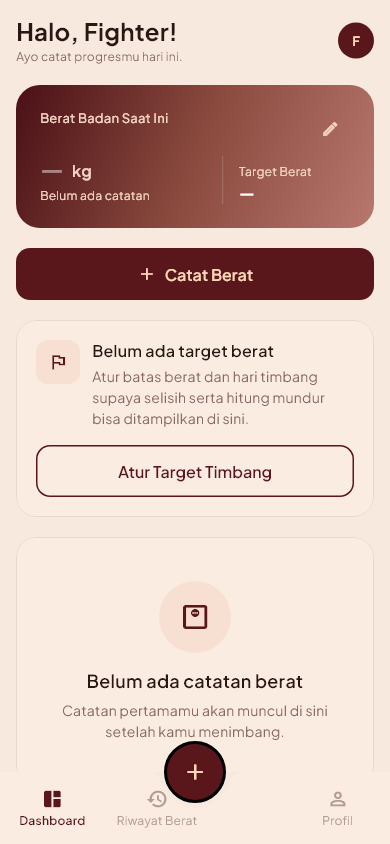
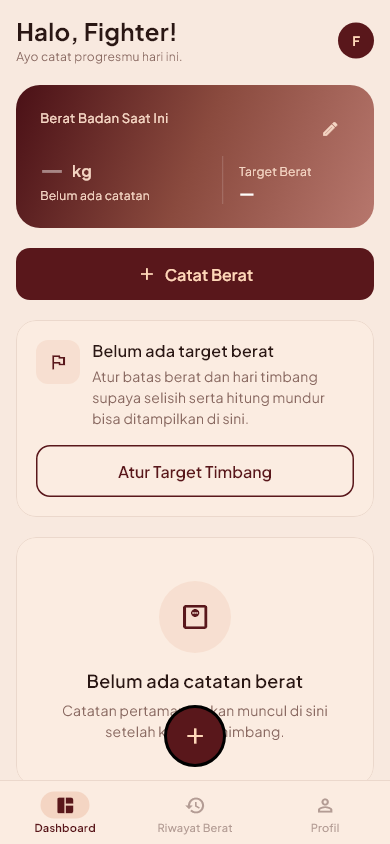
fix: rapikan navigasi bawah mobile tanpa notch dan FAB melayang di atas bar

Changed region(s): [[0.3077, 0.8318, 0.5846, 0.9858], [0.0615, 0.9242, 0.2462, 0.9858], [0.8, 0.9242, 0.8923, 0.9858]]

diff --git a/lib/core/widgets/app_scaffold.dart b/lib/core/widgets/app_scaffold.dart
@@ -94,47 +94,50 @@ class _MobileShell extends StatelessWidget {
             ),
       body: SafeArea(bottom: false, child: child),
       floatingActionButton: showFab ? const _CatatBeratFab() : null,
-      floatingActionButtonLocation: FloatingActionButtonLocation.centerDocked,
-      bottomNavigationBar: _BottomNav(index: index, showFab: showFab),
+      // D26: FAB "terangkat di atas bar", bukan menembus bar.
+      //
+      // Sebelumnya `centerDocked` + notch dipakai bersama **tiga** item menu.
+      // Tiga item yang dibagi rata menempatkan item tengah tepat di titik
+      // tengah, jadi FAB selalu menimpa "Riwayat Berat" — dan kalau gap-nya
+      // digeser supaya tidak menimpa, jarak antar item jadi tidak rata.
+      // Dengan FAB melayang di atas bar, bar bisa rata tiga dan tidak ada
+      // yang tertutup.
+      floatingActionButtonLocation: FloatingActionButtonLocation.centerFloat,
+      bottomNavigationBar: _BottomNav(index: index),
     );
   }
 }
 
 class _BottomNav extends StatelessWidget {
-  const _BottomNav({required this.index, required this.showFab});
+  const _BottomNav({required this.index});
 
   final int index;
 
-  /// Bila FAB tidak ditampilkan, bar tidak memakai notch dan ketiga menu
-  /// dibagi rata — supaya tidak ada cekungan kosong di tengah.
-  final bool showFab;
-
   @override
   Widget build(BuildContext context) {
-    return BottomAppBar(
-      color: AppColors.cream200,
-      surfaceTintColor: Colors.transparent,
-      elevation: 0,
-      height: 72,
-      padding: EdgeInsets.zero,
-      shape: showFab ? const CircularNotchedRectangle() : null,
-      notchMargin: 8,
-      child: Row(
-        children: [
-          Expanded(
-            child: _NavItem(destination: appDestinations[0], selected: index == 0),
+    return DecoratedBox(
+      decoration: const BoxDecoration(
+        color: AppColors.cream200,
+        // Garis atas tipis: tanpa ini bar menyatu dengan latar halaman dan
+        // terlihat seperti konten yang terpotong.
+        border: Border(top: BorderSide(color: AppColors.border)),
+      ),
+      child: SafeArea(
+        top: false,
+        child: SizedBox(
+          height: 64,
+          child: Row(
+            children: [
+              for (var i = 0; i < appDestinations.length; i++)
+                Expanded(
+                  child: _NavItem(
+                    destination: appDestinations[i],
+                    selected: index == i,
+                  ),
+                ),
+            ],
           ),
-          Expanded(
-            child: _NavItem(destination: appDestinations[1], selected: index == 1),
-          ),
-          if (showFab)
-            const SizedBox(width: 76)
-          else
-            const SizedBox.shrink(),
-          Expanded(
-            child: _NavItem(destination: appDestinations[2], selected: index == 2),
-          ),
-        ],
+        ),
       ),
     );
   }
@@ -159,10 +162,21 @@ class _NavItem extends StatelessWidget {
         child: Column(
           mainAxisAlignment: MainAxisAlignment.center,
           children: [
-            Icon(
-              selected ? destination.activeIcon : destination.icon,
-              size: 22,
-              color: color,
+            // Pil di belakang ikon: penanda aktif yang tidak bergantung pada
+            // warna saja (labelnya juga menebal).
+            AnimatedContainer(
+              duration: const Duration(milliseconds: 160),
+              curve: Curves.easeOut,
+              padding: const EdgeInsets.symmetric(horizontal: 14, vertical: 3),
+              decoration: BoxDecoration(
+                color: selected ? AppColors.peach200 : Colors.transparent,
+                borderRadius: BorderRadius.circular(999),
+              ),
+              child: Icon(
+                selected ? destination.activeIcon : destination.icon,
+                size: 21,
+                color: color,
+              ),
             ),
             const SizedBox(height: 2),
             Text(
@@ -170,8 +184,10 @@ class _NavItem extends StatelessWidget {
               maxLines: 1,
               overflow: TextOverflow.ellipsis,
               style: AppTextStyles.caption.copyWith(
+                fontSize: 11,
+                height: 1.1,
                 color: color,
-                fontWeight: selected ? FontWeight.w600 : FontWeight.w400,
+                fontWeight: selected ? FontWeight.w700 : FontWeight.w500,
               ),
             ),
           ],

diff --git a/test/widget_test.dart b/test/widget_test.dart
@@ -1182,6 +1182,90 @@ void main() {
     });
   });
 
+  // D26: bar bawah sempat memakai notch dengan FAB ditengah, padahal menu ada
+  // tiga. Tiga item yang dibagi rata menaruh item tengah tepat di titik tengah,
+  // jadi FAB selalu menutupi "Riwayat Berat". Test ini mengunci geometrinya.
+  group('Navigasi bawah', () {
+    Rect rectItem(WidgetTester tester, String label) {
+      return tester.getRect(
+        find
+            .ancestor(
+              of: find.text(label),
+              matching: find.byType(InkWell),
+            )
+            .first,
+      );
+    }
+
+    testWidgets('FAB tidak menimpa satu pun item menu', (tester) async {
+      final router = await pumpApp(tester);
+      router.go(AppRoutes.dashboard);
+      await tester.pumpAndSettle();
+
+      final fab = tester.getRect(find.byType(FloatingActionButton));
+      for (final label in [
+        AppStrings.navDashboard,
+        AppStrings.navRiwayat,
+        AppStrings.navProfil,
+      ]) {
+        expect(
+          fab.overlaps(rectItem(tester, label)),
+          isFalse,
+          reason: 'FAB menimpa menu "$label"',
+        );
+      }
+    });
+
+    testWidgets('FAB berada di atas bar, bukan menembusnya', (tester) async {
+      final router = await pumpApp(tester);
+      router.go(AppRoutes.dashboard);
+      await tester.pumpAndSettle();
+
+      final fab = tester.getRect(find.byType(FloatingActionButton));
+      final item = rectItem(tester, AppStrings.navDashboard);
+
+      // Seluruh badan FAB harus berakhir sebelum bar dimulai.
+      expect(fab.bottom, lessThanOrEqualTo(item.top));
+    });
+
+    testWidgets('tiga item menu berjarak rata', (tester) async {
+      final router = await pumpApp(tester);
+      router.go(AppRoutes.dashboard);
+      await tester.pumpAndSettle();
+
+      final tengah = [
+        for (final label in [
+          AppStrings.navDashboard,
+          AppStrings.navRiwayat,
+          AppStrings.navProfil,
+        ])
+          tester.getCenter(find.text(label)).dx,
+      ];
+
+      final jarakKiri = tengah[1] - tengah[0];
+      final jarakKanan = tengah[2] - tengah[1];
+      expect(jarakKiri, greaterThan(0));
+      expect(
+        (jarakKiri - jarakKanan).abs(),
+        lessThan(1.0),
+        reason: 'jarak antar menu tidak rata: $jarakKiri vs $jarakKanan',
+      );
+    });
+
+    testWidgets('item aktif ditandai teks tebal, bukan warna saja',
+        (tester) async {
+      final router = await pumpApp(tester);
+      router.go(AppRoutes.dashboard);
+      await tester.pumpAndSettle();
+
+      final aktif = tester.widget<Text>(find.text(AppStrings.navDashboard));
+      final pasif = tester.widget<Text>(find.text(AppStrings.navProfil));
+
+      expect(aktif.style?.fontWeight, FontWeight.w700);
+      expect(pasif.style?.fontWeight, isNot(FontWeight.w700));
+    });
+  });
+
   group('Responsif', () {
     List<WeightLog> contoh() => [
           WeightLog(id: 'b', tanggal: AppDate.hariIni(), berat: 73.6),

diff --git a/lib/pages/riwayat_berat_page.dart b/lib/pages/riwayat_berat_page.dart
@@ -143,7 +143,8 @@ class _Daftar extends StatelessWidget {
       child: ConstrainedBox(
         constraints: const BoxConstraints(maxWidth: 720),
         child: ListView.builder(
-          padding: EdgeInsets.fromLTRB(padding, padding, padding, 96),
+          padding: EdgeInsets.fromLTRB(padding, padding, padding,
+              AppSpacing.bottomFor(MediaQuery.sizeOf(context).width)),
           // Indeks 0 adalah kepala daftar, sisanya catatan.
           itemCount: logs.length + 1,
           itemBuilder: (context, index) {
@@ -217,7 +218,8 @@ class _Kosong extends StatelessWidget {
   @override
   Widget build(BuildContext context) {
     return SingleChildScrollView(
-      padding: EdgeInsets.fromLTRB(padding, padding, padding, 96),
+      padding: EdgeInsets.fromLTRB(padding, padding, padding,
+              AppSpacing.bottomFor(MediaQuery.sizeOf(context).width)),
       child: Center(
         child: ConstrainedBox(
           constraints: const BoxConstraints(maxWidth: 720),

diff --git a/lib/core/constants/app_spacing.dart b/lib/core/constants/app_spacing.dart
@@ -17,6 +17,17 @@ abstract final class AppSpacing {
 
   /// Jarak antar-kartu.
   static const gap = 20.0;
+
+  /// Ruang bawah konten mobile supaya kartu terakhir tidak tertutup FAB
+  /// melayang (D26). Bar 64 px + jarak FAB 16 px + tinggi FAB 56 px + sisa 16.
+  static const bottomFab = 152.0;
+
+  /// Ruang bawah konten di layar lebar (FAB di pojok, bukan di tengah).
+  static const bottomWide = 96.0;
+
+  /// Ruang bawah konten sesuai lebar layar.
+  static double bottomFor(double width) =>
+      width < AppBreakpoints.mobile ? bottomFab : bottomWide;
 }
 
 abstract final class AppRadius {

diff --git a/lib/pages/dashboard_page.dart b/lib/pages/dashboard_page.dart
@@ -148,7 +148,8 @@ class DashboardPage extends ConsumerWidget {
       child: memuat
           ? const Center(child: CircularProgressIndicator())
           : SingleChildScrollView(
-              padding: EdgeInsets.fromLTRB(padding, padding, padding, 96),
+              padding: EdgeInsets.fromLTRB(padding, padding, padding,
+              AppSpacing.bottomFor(MediaQuery.sizeOf(context).width)),
               child: Center(
                 child: ConstrainedBox(
                   constraints: BoxConstraints(

diff --git a/lib/pages/profil_page.dart b/lib/pages/profil_page.dart
@@ -57,7 +57,8 @@ class ProfilPage extends ConsumerWidget {
       title: AppStrings.halamanProfil,
       showFab: false,
       child: SingleChildScrollView(
-        padding: EdgeInsets.fromLTRB(padding, padding, padding, 96),
+        padding: EdgeInsets.fromLTRB(padding, padding, padding,
+              AppSpacing.bottomFor(MediaQuery.sizeOf(context).width)),
         child: Center(
           child: ConstrainedBox(
             constraints: const BoxConstraints(maxWidth: 720),

diff --git a/docs/PROGRESS.md b/docs/PROGRESS.md
@@ -183,3 +183,14 @@ LULUS  Akun B menulis catatan atas nama akun A ... ditolak aturan
 - **Verifikasi:** `flutter analyze` bersih, `flutter test` **140/140 lulus**, `flutter build web` OK, `dart run tool/cek_isolasi.dart` **5/5 lulus**, `https://wefight-38409.web.app/` menjawab **HTTP 200**.
 - **File disentuh:** `firebase.json`, `web/index.html`, `web/manifest.json`, `tool/seed_demo.dart`, `tool/firebase_rest.dart`, `tool/cek_isolasi.dart`, `lib/core/constants/app_strings.dart`, `lib/pages/dashboard_page.dart`, `docs/{PLAN,PROGRESS}.md`, `README.md`
 - **Catatan:** URL memakai strategi hash bawaan Flutter web (`/#/history`) karena `usePathUrlStrategy` tidak dipakai — konsekuensinya deep link tetap bekerja tanpa konfigurasi server tambahan, dan build Android tidak perlu impor khusus web.
+
+## 2026-10-30 00:53 — Perbaikan: navigasi bawah di mobile tidak rapi
+- **Status:** selesai (bug tampilan, dilaporkan dari tangkapan layar HP)
+- **Gejala:** di HP, FAB "+" menimpa ikon dan label **"Riwayat Berat"**; jarak antar menu tidak rata; bar menyatu dengan latar konten sehingga terlihat seperti isi halaman yang terpotong.
+- **Penyebab:** bar memakai `BottomAppBar` + `CircularNotchedRectangle` + `FloatingActionButtonLocation.centerDocked` bersama **tiga** tujuan menu. Notch Material hanya simetris untuk jumlah tujuan **genap**: dengan tiga item, item tengah pasti berada tepat di titik tengah, tempat FAB berada. Kode lama menambal ini dengan `SizedBox(width: 76)` sebagai celah, tetapi `Expanded` yang tersisa lalu membagi lebar tidak sama — celahnya bergeser ke 2/3 lebar, sehingga FAB mendarat tepat di atas "Riwayat Berat". Menghitung ulang menunjukkan tidak ada susunan tiga item + FAB tengah yang bisa simetris.
+- **Perbaikan (D26):** bar tanpa notch, tiga item `Expanded` dibagi rata, dan FAB memakai `centerFloat` sehingga **melayang di tengah di atas bar** — tidak ada item yang tertutup dan jarak antar menu rata. Ditambahkan garis atas tipis (`AppColors.border`) sebagai pemisah dari konten, `SafeArea(top: false)` agar label tidak menempel gesture bar, tinggi bar 64 px, dan pil `peach200` di belakang ikon aktif sebagai penanda kedua selain tebal huruf. Konten bawah memakai `AppSpacing.bottomFab` (152 px) di mobile / `bottomWide` (96 px) di layar lebar supaya kartu terakhir bisa digulir melewati FAB.
+- **Verifikasi visual:** tangkapan layar di `docs/screenshots/` dirender ulang dan diperiksa satu per satu (Dashboard, Riwayat, Profil). Varian `endFloat` juga dicoba lebih dulu, tetapi FAB-nya justru menutup label sumbu "30 Okt" pada grafik, jadi tidak dipakai.
+- **Test baru (grup `Navigasi bawah`, 4 test):** FAB tidak beririsan dengan satu pun item menu (diuji dengan `Rect.overlaps`), FAB seluruhnya berada di atas bar, tiga item berjarak rata (selisih < 1 px), dan item aktif ditandai tebal huruf bukan warna saja.
+- **Verifikasi:** `flutter analyze` bersih, `flutter test` **144/144 lulus**, `flutter build web` OK, Hosting dideploy ulang.
+- **File disentuh:** `lib/core/widgets/app_scaffold.dart`, `lib/core/constants/app_spacing.dart`, `lib/pages/{dashboard,profil,riwayat_berat}_page.dart`, `test/widget_test.dart`, `docs/{PLAN,PROGRESS,UI_SPEC}.md`, `README.md`, `docs/screenshots/*`
+- **Catatan:** README sempat mencantumkan "92 widget test" dan melewatkan `test/models_test.dart` sama sekali. Angka dihitung ulang per berkas: widget 76 + validators 21 + weight_math 19 + weight_log 8 + models 20 = **144**.

diff --git a/docs/PLAN.md b/docs/PLAN.md
@@ -188,6 +188,7 @@ Halaman hanya berisi tampilan; query Firestore tidak pernah ditulis di `lib/page
 | D23 | Di layar **≥600 px FAB disembunyikan** dan aksi "Catat Berat" pindah ke tombol di area konten (Dashboard) atau kanan atas header (Riwayat) | Satu aksi cukup satu tombol. FAB tetap wajib di mobile karena merupakan bagian dari bar navigasi (D11, UI_SPEC §6) | disetujui (2026-10-29) |
 | D24 | Query `weightLogs` memakai **`.where('uid')` saja**; pengurutan tanggal dilakukan di Dart (`urutkanTerbaruDulu`) | `where('uid') + orderBy('tanggal')` menuntut **indeks komposit** yang harus dibuat manual per project. Selama indeks itu belum aktif Firestore menolak query dengan `FAILED_PRECONDITION`, dan aplikasi tampil seolah tidak ada koneksi. Pengurutan di Dart memberi hasil sama tanpa syarat infrastruktur, tetap satu tempat, dan bisa diuji sebagai fungsi murni. Kunci tanggal `yyyy-MM-dd` sehingga perbandingan teks sudah kronologis (D4) | disetujui (2026-10-30) |
 | D25 | **Galat memuat dibedakan dari keadaan kosong** di Dashboard dan Riwayat: keduanya memakai widget `GagalMuat` + tombol "Coba lagi" | Sebelumnya kegagalan query tampil sebagai "Belum ada catatan berat" dan angka `—`, sehingga pengguna mengira catatannya hilang. Keadaan kosong berarti benar-benar tidak ada data; galat berarti data tidak berhasil diambil. Spinner juga tidak boleh berputar terus saat galat | disetujui (2026-10-30) |
+| D26 | `BottomNav` mobile **tanpa notch**: 3 destinasi dibagi rata, FAB "Catat Berat" memakai `centerFloat` (melayang di tengah **di atas** bar) | Notch Material hanya simetris untuk 2 atau 4 tujuan. Dengan 3 tujuan, item tengah pasti berada tepat di titik tengah sehingga FAB selalu menutupi "Riwayat Berat"; menggeser gap agar tidak menutupi membuat jarak antar item tidak rata. FAB melayang menyelesaikan keduanya: bar rata tiga dan tidak ada item tertutup. Konten bawah memakai `AppSpacing.bottomFab` (152 px) supaya kartu terakhir tidak tertutup FAB saat digulir penuh | disetujui (2026-10-30) |
 
 **Belum diputuskan / perlu tanya pemilik:**
 - (tidak ada)
@@ -536,6 +537,21 @@ Kalau suatu saat `orderBy` dikembalikan, indeks kompositnya wajib ada lebih dulu
 tampak sama. Akibatnya pengguna mengira catatannya hilang. Periksa
 `hasError` lebih dulu dan tampilkan kartu galat + tombol coba lagi (D25).
 Spinner juga harus berhenti saat galat, bukan berputar terus.
+
+**Jebakan: notch `BottomAppBar` tidak simetris untuk tiga tujuan menu.**
+`CircularNotchedRectangle` + `centerDocked` hanya rapi bila jumlah tujuan menu
+**genap** (2 atau 4), karena notch berada tepat di titik tengah. Dengan tiga
+tujuan, item tengah selalu berada di titik tengah juga, sehingga FAB menimpa
+ikon dan label item itu. Menambahkan `SizedBox` sebagai celah tidak menolong:
+`Expanded` yang tersisa membagi lebar secara tidak sama, jadi celahnya bergeser
+dari tengah dan jarak antar item jadi tidak rata. Solusi yang dipakai: bar tanpa
+notch, tiga item `Expanded` rata, FAB `centerFloat` di atas bar (D26).
+
+**Jebakan: mengubah jumlah test per berkas membuat README melenceng.**
+Angka "N test" di README dihitung dari hasil `flutter test`, bukan dari jumlah
+`testWidgets` di berkas — grup `Responsif` memakai perulangan sehingga satu blok
+menghasilkan tiga test. Hitung ulang per berkas dengan menjalankan
+`flutter test <berkas>` sebelum memperbarui README.
 
 ---
 

diff --git a/README.md b/README.md
@@ -61,7 +61,7 @@ Pemeriksaan kualitas:
 
 ```bash
 flutter analyze
-flutter test                 # 140 test
+flutter test                 # 144 test
 flutter build web            # build produksi
 firebase deploy --only hosting   # unggah build/web ke Hosting
 ```
@@ -140,7 +140,7 @@ Perilaku per lebar layar:
 
 | Lebar | Navigasi | Dashboard | Aksi "Catat Berat" |
 |---|---|---|---|
-| < 600 px | Bottom nav 3 destinasi | Satu kolom | FAB di tengah bar + tombol di konten |
+| < 600 px | Bottom nav 3 destinasi | Satu kolom | FAB melayang di tengah, di atas bar + tombol di konten |
 | 600–1023 px | Sidebar ringkas (ikon) | Satu kolom, maks 720 px | Tombol di konten |
 | ≥ 1024 px | Sidebar 240 px + label | **Dua kolom** (3 : 2) | Tombol di konten (Dashboard), kanan atas header (Riwayat) |
 
@@ -158,14 +158,15 @@ Hasilnya tersimpan di `docs/screenshots/` (15 gambar: mobile, tablet, web).
 
 ## Pengujian
 
-**140 test**, semuanya lulus tanpa Firebase (Auth dan Firestore diganti fake):
+**144 test**, semuanya lulus tanpa Firebase (Auth dan Firestore diganti fake):
 
 | Berkas | Isi |
 |---|---|
-| `test/widget_test.dart` | 92 widget test: kerangka & guard login, validasi form autentikasi, Target Timbang, Catat Berat (termasuk aturan satu catatan per tanggal dan mode ubah), Riwayat Berat, ringkasan Dashboard, grafik tren, keadaan galat, responsif 360/768/1440 px |
+| `test/widget_test.dart` | 76 widget test: kerangka & guard login, validasi form autentikasi, Target Timbang, Catat Berat (termasuk aturan satu catatan per tanggal dan mode ubah), Riwayat Berat, ringkasan Dashboard, grafik tren, keadaan galat, geometri navigasi bawah, responsif 360/768/1440 px |
 | `test/validators_test.dart` | 21 unit test `Validators` — batas 30 dan 200 kg diuji **inklusif**, koma desimal, dan target yang boleh kosong |
 | `test/weight_math_test.dart` | 19 unit test `WeightMath` — selisih 0/positif/negatif, pembulatan satu desimal, sisa hari 0 dan negatif |
 | `test/weight_log_test.dart` | 8 unit test `urutkanTerbaruDulu` — urutan tanggal terbaru dulu, tanggal sama, daftar masukan tidak berubah, hasil tidak bisa diubah pemanggil |
+| `test/models_test.dart` | 20 unit test model `Target`/`WeightLog`/`UserProfile` — pembacaan peta Firestore, data rusak menjadi null, dan penulisan `uid` |
 
 Logika yang bisa salah tanpa terlihat di layar (aritmetika selisih, hitung mundur, validasi rentang) diuji sebagai fungsi murni lebih dulu, baru ditempel ke widget. Tampilan yang tidak bisa dijamin test — label terpotong, tombol melebar, teks bertumpuk — ditangkap lewat render golden di atas.
 

diff --git a/docs/UI_SPEC.md b/docs/UI_SPEC.md
@@ -154,7 +154,7 @@ Prinsip: **permukaan dibedakan lewat warna, bukan bayangan.** Referensi hampir t
 - Urutan vertikal: `TopBar` (sapaan + avatar) → `HeroWeightCard` → `Progres Menuju Target` → `WeightChart` (ringkas) → kartu terakhir → `BottomNav` menempel bawah.
 - `displayWeight` tetap 40 px; hero card padding 20.
 - Semua kartu selebar layar dikurangi margin 16.
-- `BottomNav` 3 destinasi dengan FAB "Catat Berat" menonjol di tengah bar, sedikit terangkat di atas bar. FAB adalah **aksi**, bukan tujuan menu.
+- `BottomNav` 3 destinasi dibagi rata, dengan garis atas tipis sebagai pemisah dari konten. FAB "Catat Berat" **melayang di tengah, di atas bar** — bukan memotong bar. Bar tidak memakai notch karena notch hanya simetris untuk 2 atau 4 tujuan, sedangkan menu ada 3 (D26). FAB adalah **aksi**, bukan tujuan menu; item aktif ditandai pil di belakang ikon **dan** label yang menebal, bukan warna saja.
 - Splash: gradient `splash`, siluet petinju, wordmark "WeFight", tagline, kutipan di bawah.
 
 ---
